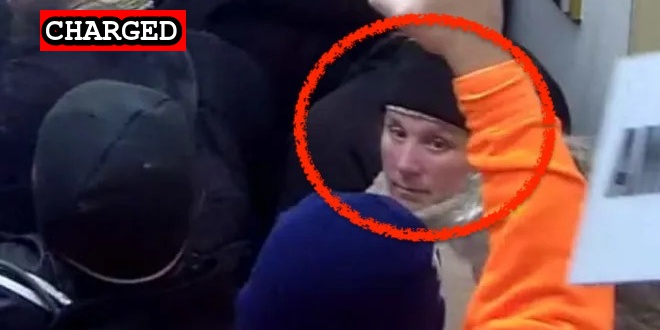
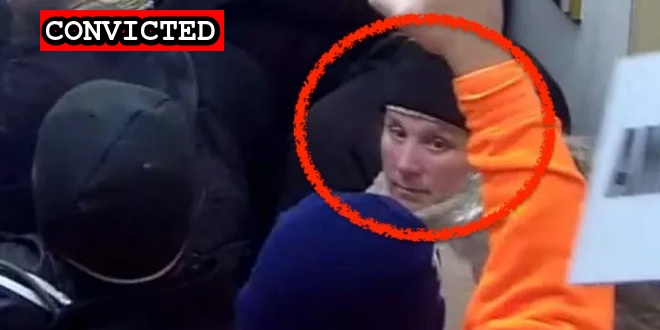
Guilty pleas

Changed region(s): [[0.0909, 0.0303, 0.3636, 0.1818]]

diff --git a/docs/_suspects/lori-vinson.md b/docs/_suspects/lori-vinson.md
@@ -3,11 +3,11 @@ name: Lori Vinson
 lastName: Vinson
 aka:
 residence: Kentucky
-status: Charged
+status: Convicted
 date: 2021-02-23
 charged: 2021-02-23
 indicted:
-convicted: 
+convicted: 2021-07-27
 sentenced:
 dismissed: 
 deceased:

diff --git a/docs/_suspects/thomas-vinson.md b/docs/_suspects/thomas-vinson.md
@@ -3,11 +3,11 @@ name: Thomas Vinson
 lastName: Vinson
 aka:
 residence: Kentucky
-status: Charged
+status: Convicted
 date: 2021-02-23
 charged: 2021-02-23
 indicted:
-convicted: 
+convicted: 2021-07-27
 sentenced: 
 dismissed: 
 age:
